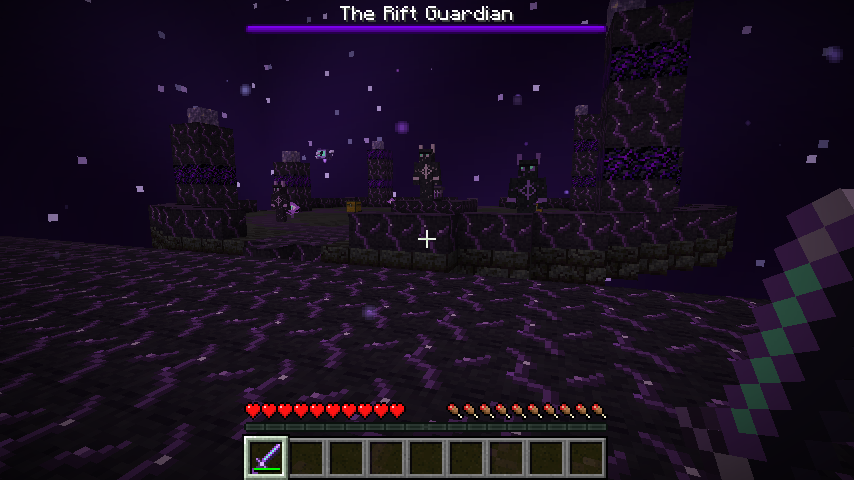
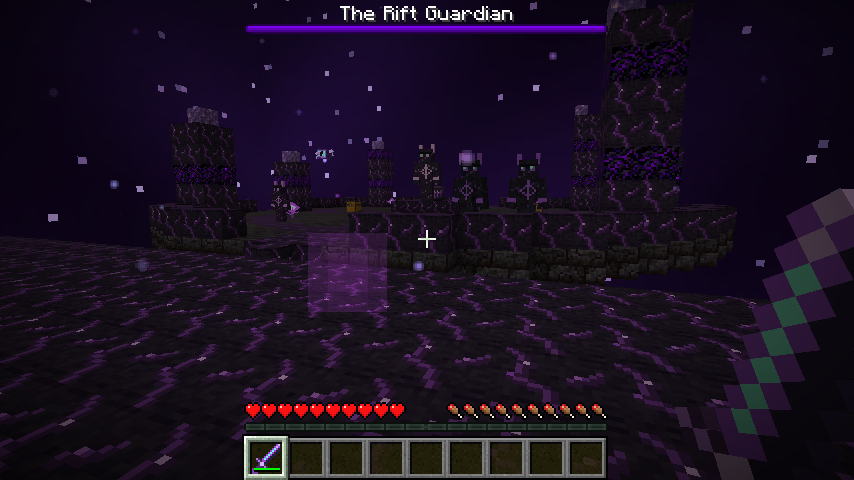
Record the verified Riftborn release and remove temporary artifact transport

diff --git a/docs/VERIFICATION.md b/docs/VERIFICATION.md
@@ -1,0 +1,48 @@
+# Riftborn 1.0.0 — verification record
+
+The production code at [`6acaa53`](https://github.com/benluvzbacon/Minecraft-test/commit/6acaa53765a6e289238b0ec90f316db34181ad0b) passed the complete [GitHub Actions verification run](https://github.com/benluvzbacon/Minecraft-test/actions/runs/34005448766) on Java 21 and Minecraft 1.21.1 with the pinned Fabric dependencies.
+
+## Results
+
+| Check | Result |
+| --- | --- |
+| `./gradlew --no-daemon clean build` | Passed; common, client, and development test source sets compile; production jar remapped |
+| JUnit resource-integrity tests | **9 passed** |
+| Dedicated-server GameTests | **20 passed**, zero failures |
+| Generated PNG/JSON/NBT reproducibility | Byte-for-byte match with committed resources |
+| Production archive audit | Passed, including Java 21 bytecode and test-mod exclusion |
+| Real Fabric client + dedicated server | Passed, with clean shutdown |
+
+The GameTests cover full-body blink clearance, walls, panes, diagonal corner grazing between samples, low ceilings, fluids, void landings, authoritative cooldown/durability, recipes, mining-tool tags, the Overworld ore-generation hook, nearby-anchor POI lookup, registry/template loading, saved return-point serialization, projectile damage, Stalker teleportation, Brute knockback, Wisp flight/ranged AI, Guardian phase transition, Heart drops, and summoned-Wisp cleanup.
+
+The client/server smoke test independently confirmed:
+
+- Natural structure locating in the Overworld and The Rift.
+- Survival entry using a Rift Core, with exactly one Core consumed.
+- Networked Riftblade movement, durability cost, and cooldown synchronization; repeated use during cooldown is rejected.
+- Loaded floating-island terrain: **94 sampled columns** with terrain suspended above air, below the separate display structure.
+- All four mob types reaching the client, registered renderers, the custom sky, and particles.
+- Returning through a Rift Anchor to the player's saved Overworld origin.
+
+The [in-game screenshot](images/the-rift.png) was captured by that real client. Its shrine and stationary display mobs are an explicit test exhibition, not a claim that this particular scene was found through survival exploration. Natural generation and combat AI are tested separately.
+
+## Distributable
+
+- File: **`riftborn-1.0.0.jar`**
+- Size: **149,934 bytes**
+- Archive: **215 entries**, including **36 Java 21 classes**
+- SHA-256:
+
+```text
[1 lines of base64/hex data omitted]
+```
+
+The audit verifies intermediary remapping, entrypoint classes, JSON decoding, archive integrity, inclusion of every main resource, and exclusion of both development test mods. The retrieved jar was independently rechecked with `python3 scripts/verify_jar.py`.
+
+A normal source build writes the installation jar to **`build/libs/riftborn-1.0.0.jar`**. CI supplies the jar and `SHA256SUMS` in the **`riftborn-1.21.1`** Actions artifact. Install the regular jar, not `-sources.jar`, alongside Fabric API on both the client and the server.
+
+## Scope
+
+These are automated build and runtime checks, not a claim of exhaustive playtesting. The multiplayer smoke uses one actual networked client; it is not a multi-user load test. Boss balance, long survival sessions, every world seed, arbitrary player-built obstructions, and third-party mod/shader-pack compatibility still warrant playtesting. Back up existing saves.
+
+See [TESTING.md](TESTING.md) for reproducible commands and test-instance isolation details.

diff --git a/README.md b/README.md
@@ -51,7 +51,7 @@ Build it yourself as described below, or download the **`riftborn-1.21.1`** arti
 
 **Use any Rift Anchor in The Rift with an empty hand.** Return trips require no Core and lead to your own saved Overworld entry anchor, not another player's. Your return location survives disconnects and server restarts. A safe arrival platform and return anchor are created once on your first entry; they are not rebuilt over player builds on every visit.
 
-Dismount before crossing, and allow the normal portal cooldown to settle between trips. Travel checks for collision-free footing. If your original landing is obstructed, the mod attempts a safe landing near Overworld spawn instead. Beds and respawn anchors **do not work in The Rift**—beds can explode. Death otherwise follows normal Minecraft rules.
+Dismount before crossing, and allow the normal portal cooldown to settle between trips. Travel checks for collision-free footing. If your original landing is obstructed, the mod attempts a safe landing near Overworld spawn instead. Beds and charged respawn anchors **explode in The Rift**; they cannot set your respawn point here. Death otherwise follows normal Minecraft rules.
 
 ### Recipes
 
@@ -115,7 +115,7 @@ Other useful commands:
 ./gradlew clean build     # full clean rebuild
 ```
 
-See [docs/TESTING.md](docs/TESTING.md) for the headless multiplayer test, CI details, and verification scope.
+See [docs/TESTING.md](docs/TESTING.md) for the headless multiplayer test, CI details, and verification scope. The [1.0.0 verification record](docs/VERIFICATION.md) includes the successful run, test counts, and distributable checksum.
 
 ### Configuration
 
@@ -171,4 +171,4 @@ The generators use only Python's standard library and fixed seeds. Textures and 
 
 ## License
 
-Riftborn code, generated textures, and structure designs are available under the [MIT License](LICENSE). Minecraft and its assets belong to Mojang/Microsoft and are not included in this repository. Riftborn is an independent, unofficial mod, not an official Minecraft product.
+Riftborn code, generated textures, and structure designs are available under the [MIT License](LICENSE). Minecraft and the vanilla graphics shown in the documentation screenshot belong to Mojang/Microsoft. Riftborn is an independent, unofficial mod, not an official Minecraft product.
